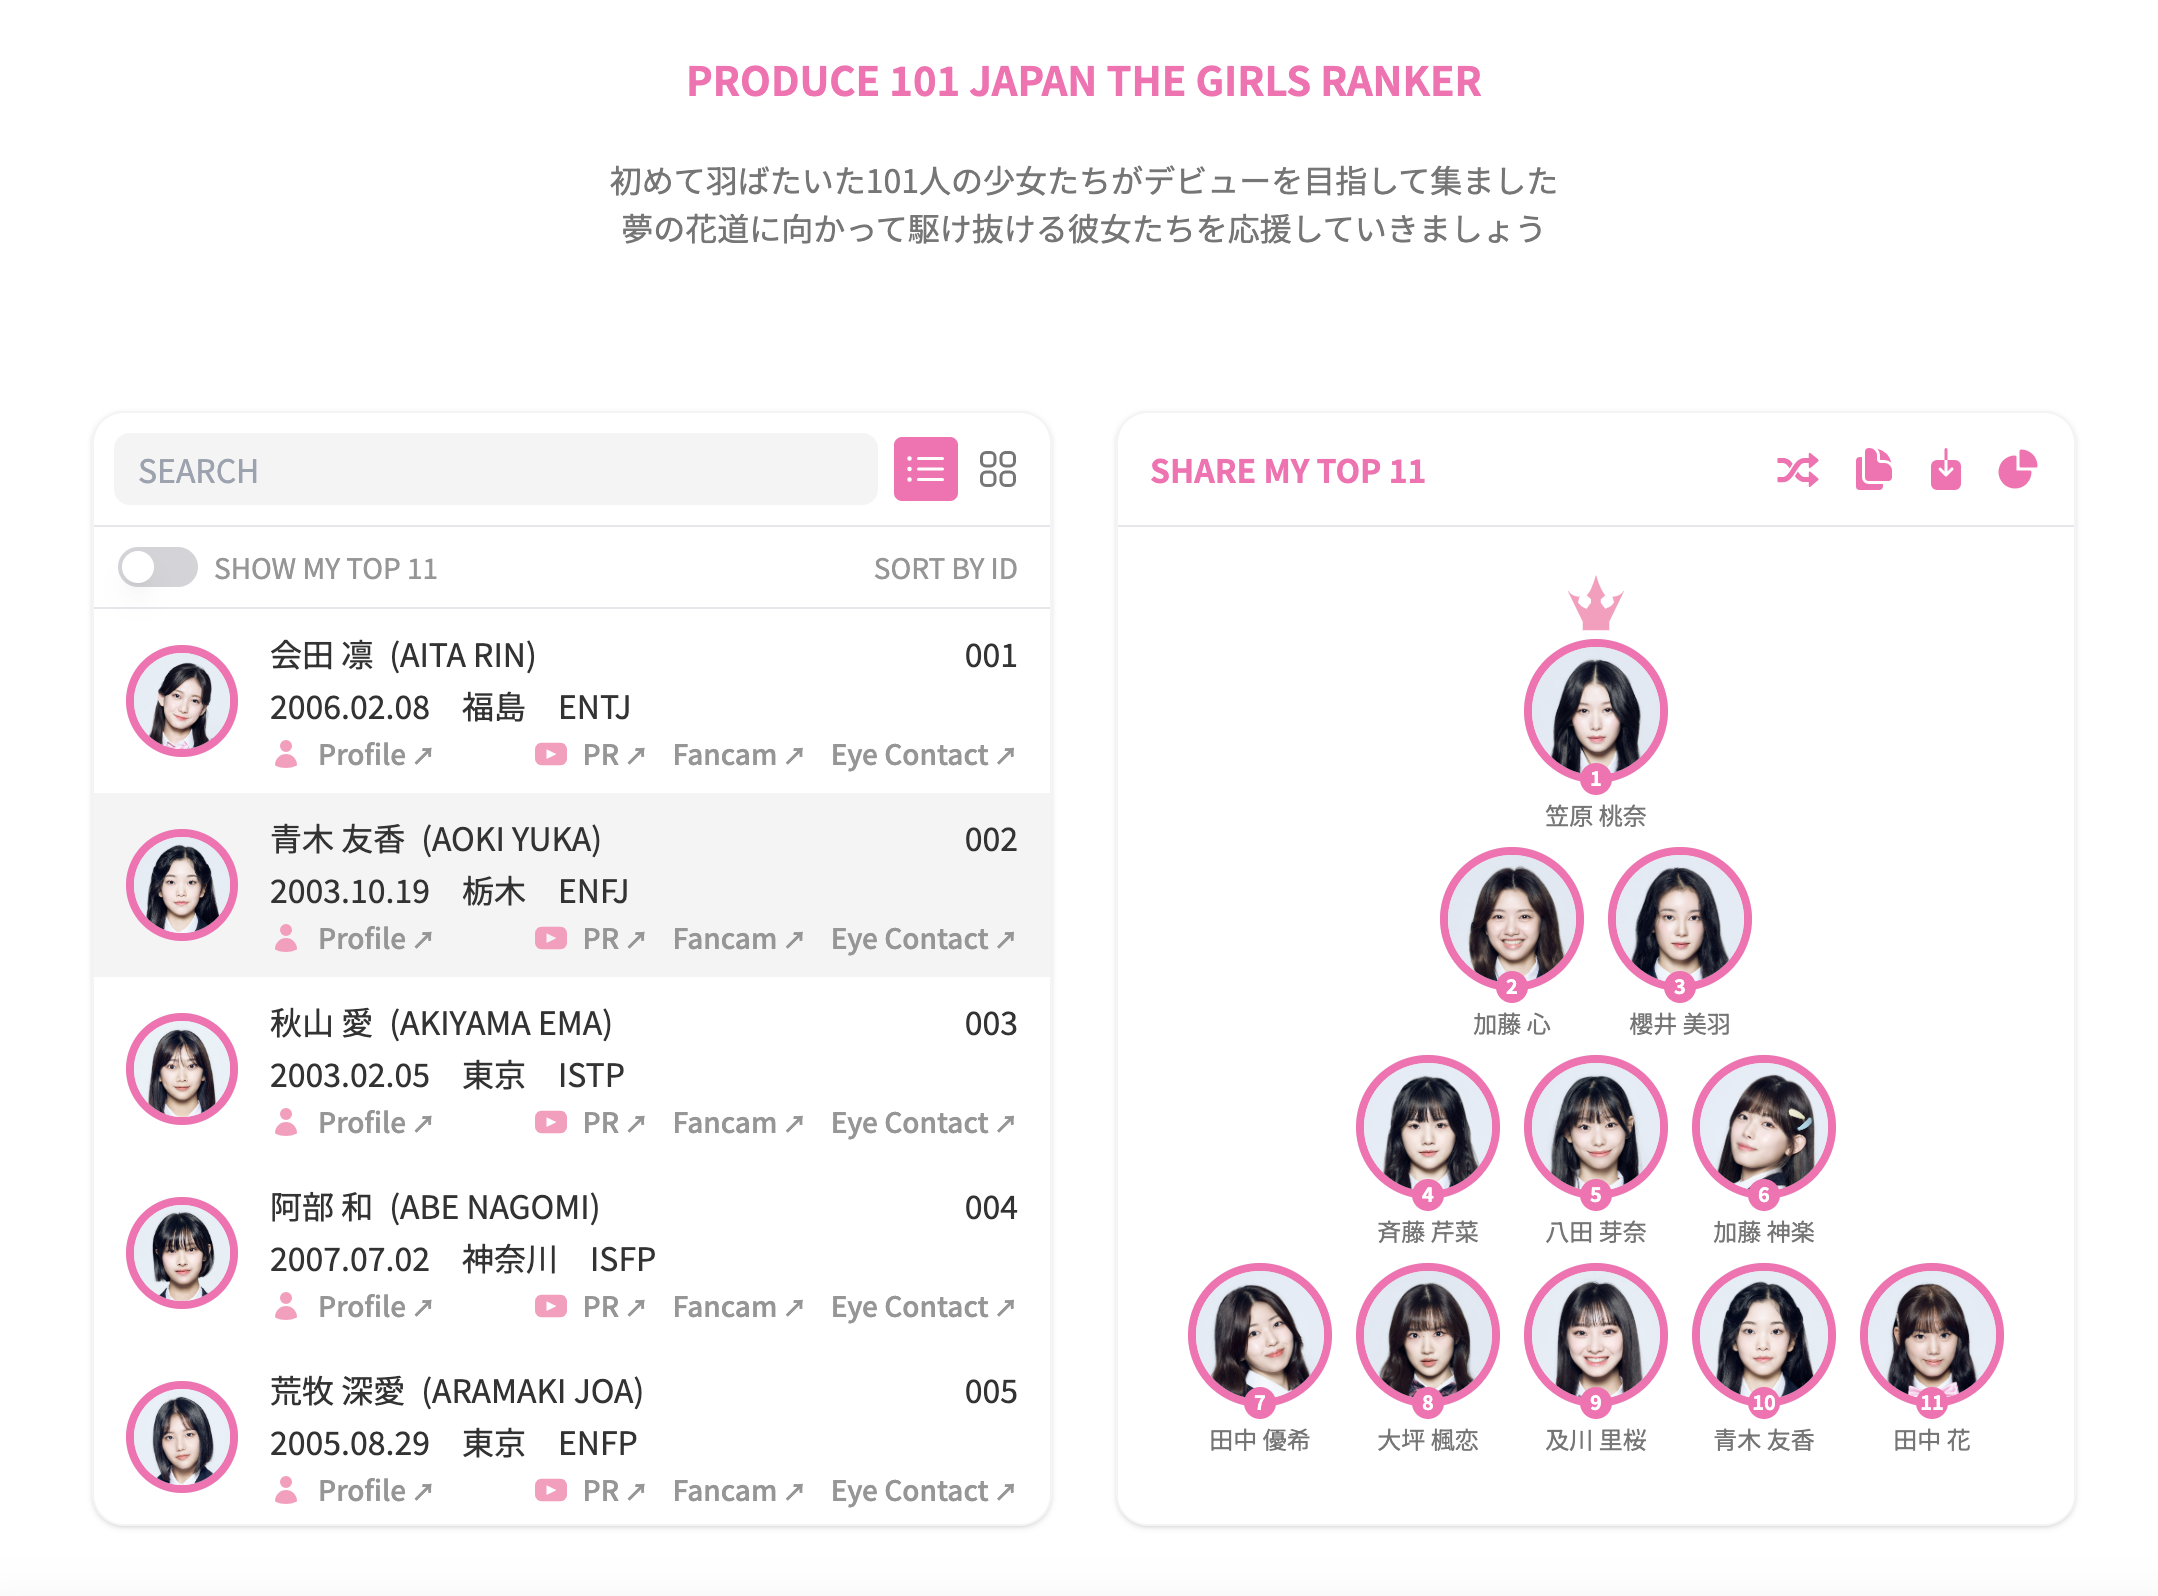
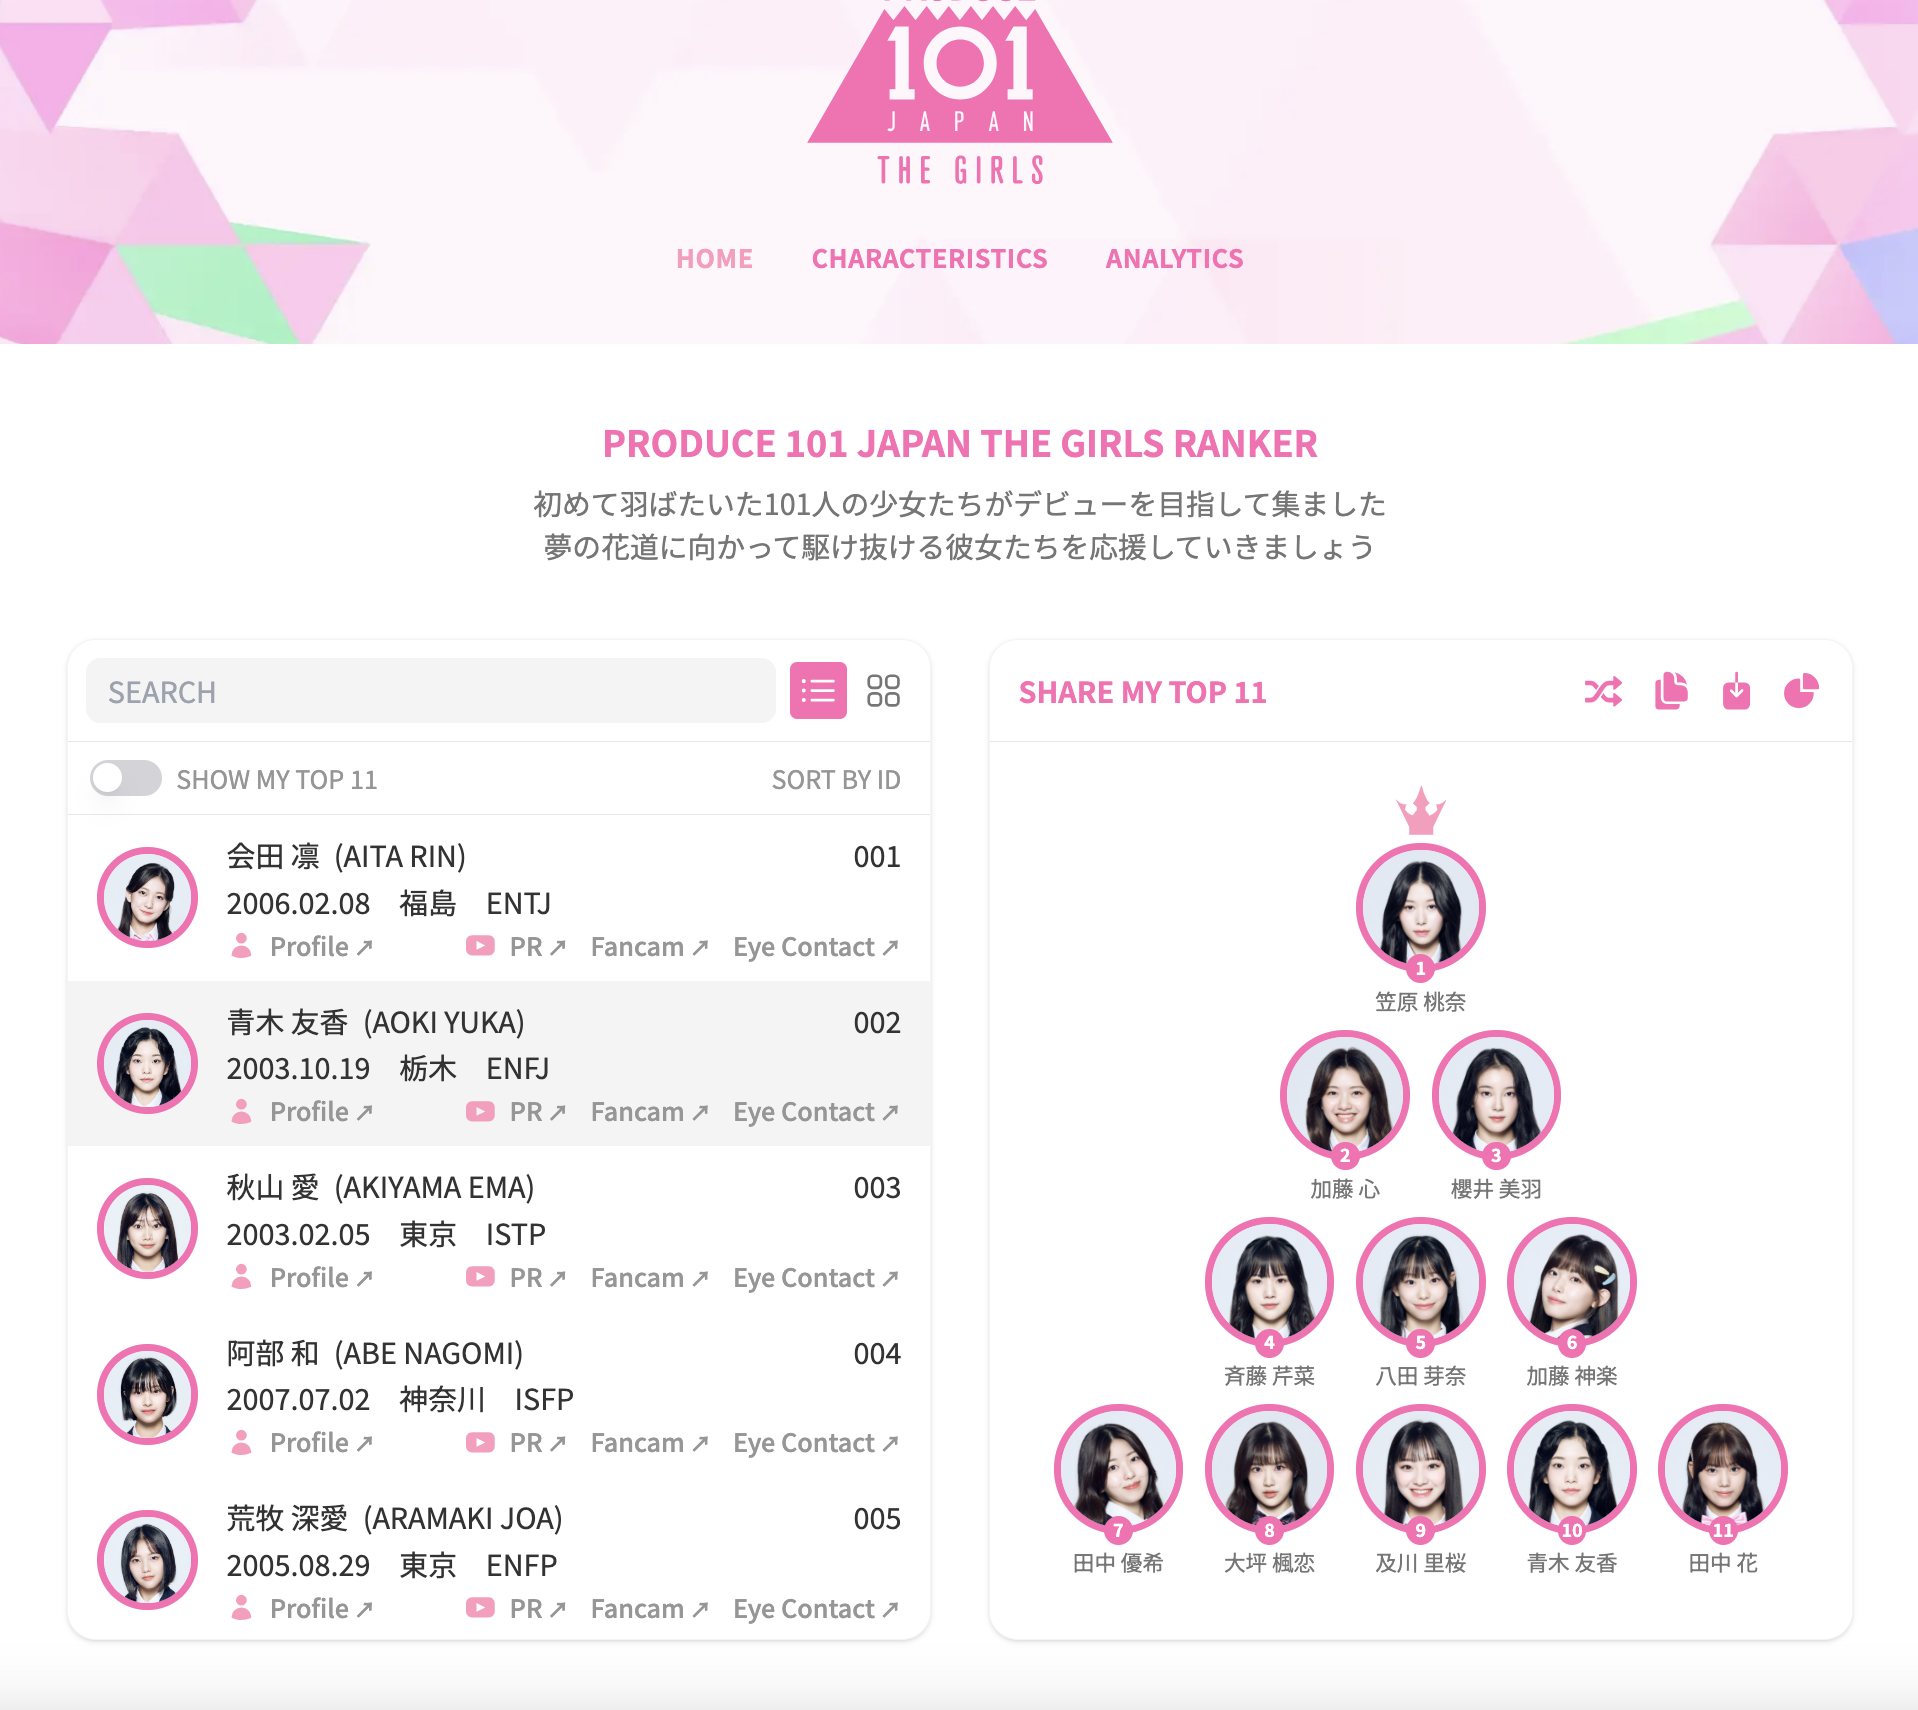
Update readme

diff --git a/README.md b/README.md
@@ -1,34 +1,9 @@
-This is a [Next.js](https://nextjs.org/) project bootstrapped with [`create-next-app`](https://github.com/vercel/next.js/tree/canary/packages/create-next-app).
+# PRODUCE 101 JAPAN THE GIRLS RANKER
 
-## Getting Started
+PRODUCE 101 JAPAN THE GIRLS RANKER is not just a ranker.
 
-First, run the development server:
+You can pick your top 11 from the trainees who are participating [PRODUCE 101 JAPAN THE GIRLS](https://produce101.jp/). After your top 11 is completed, you can share your group with your friends via the link or the image. Afterwards, you can even browse the characteristics of your group to figure out the distributions of their MBTI types and birth years. In addition, it provides the analytics of the YouTube video view counts that tell who are the trending girls.
 
-```bash
-npm run dev
-# or
-yarn dev
-# or
-pnpm dev
-```
+![example](https://raw.githubusercontent.com/produce101jpthegirls/produce101jpthegirls.github.io/bc4c4db5597a2b58f628154cca44a47eb84935a2/public/assets/example.png)
 
-Open [http://localhost:3000](http://localhost:3000) with your browser to see the result.
-
-You can start editing the page by modifying `app/page.tsx`. The page auto-updates as you edit the file.
-
-This project uses [`next/font`](https://nextjs.org/docs/basic-features/font-optimization) to automatically optimize and load Inter, a custom Google Font.
-
-## Learn More
-
-To learn more about Next.js, take a look at the following resources:
-
-- [Next.js Documentation](https://nextjs.org/docs) - learn about Next.js features and API.
-- [Learn Next.js](https://nextjs.org/learn) - an interactive Next.js tutorial.
-
-You can check out [the Next.js GitHub repository](https://github.com/vercel/next.js/) - your feedback and contributions are welcome!
-
-## Deploy on Vercel
-
-The easiest way to deploy your Next.js app is to use the [Vercel Platform](https://vercel.com/new?utm_medium=default-template&filter=next.js&utm_source=create-next-app&utm_campaign=create-next-app-readme) from the creators of Next.js.
-
-Check out our [Next.js deployment documentation](https://nextjs.org/docs/deployment) for more details.
+By the way, they are my top 11. Let's have fun and support the girls!
